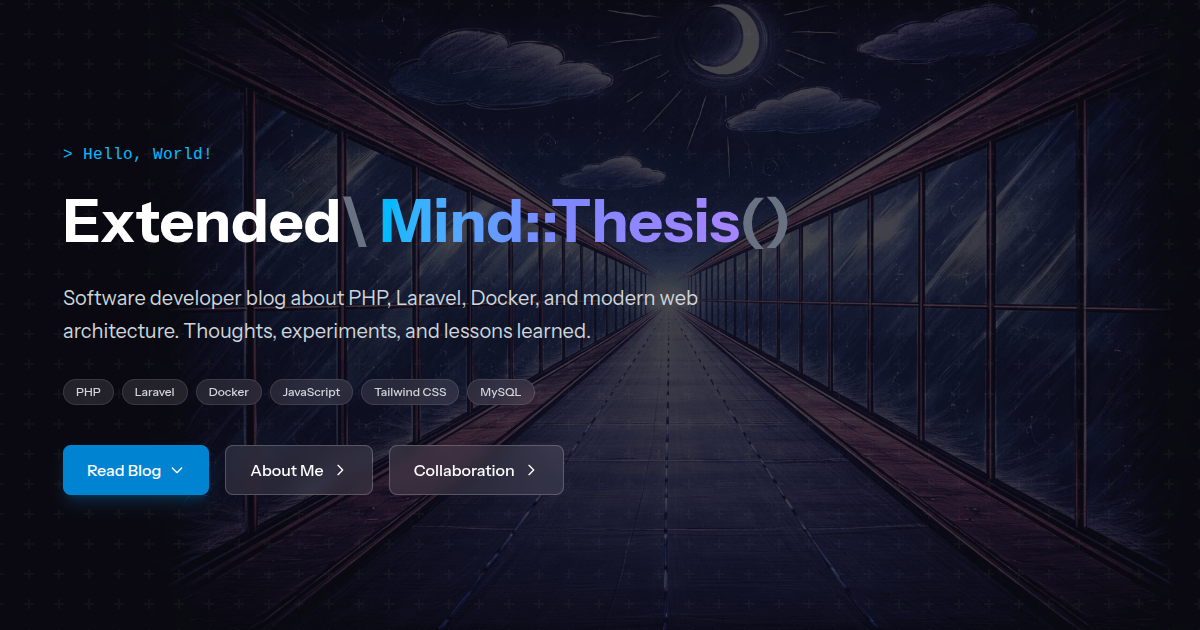
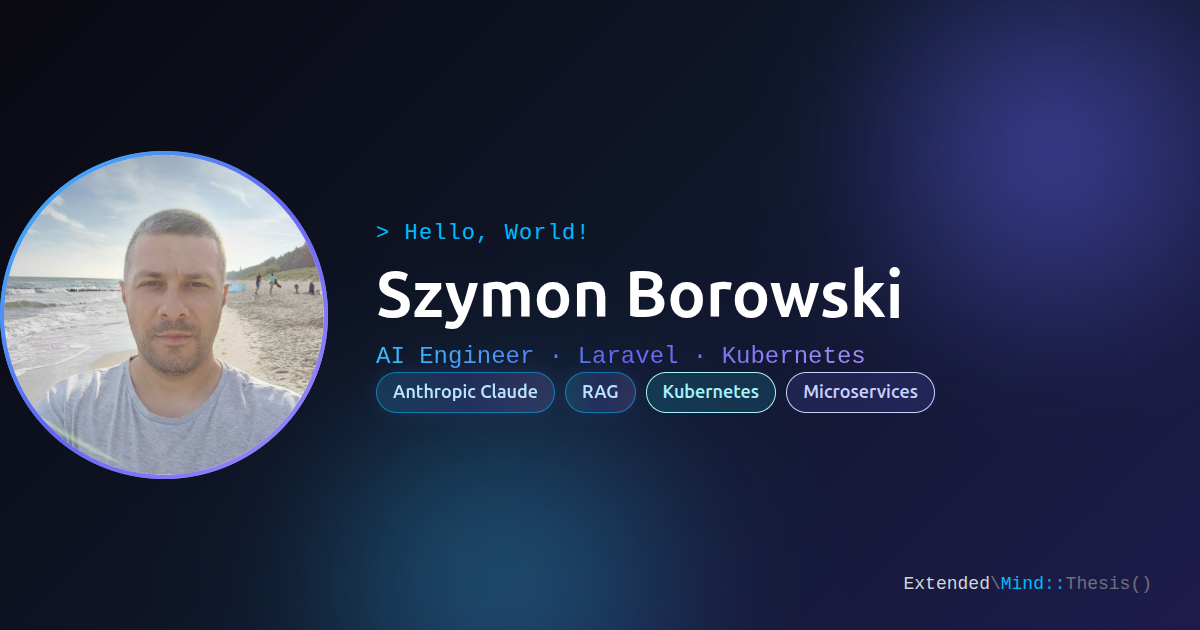
feat(seo): personalised title, designed OG card, sitemap, BlogPosting LD, theme-color metas
Make the home title carry identity and keywords ("Szymon Borowski · AI
Engineer · Laravel · Kubernetes") instead of just the brand string,
and switch the default og:type to "profile" so social platforms treat
this as a personal site. Replace the outdated screenshot-style OG
cover with a designed 1200x630 share card (photo with gradient ring,
gradient name, key tags, brand) rendered from a noindex /og-preview
template that can be regenerated by reopening the page and capturing
a screenshot.

Add the missing SEO infrastructure: theme-color metas (light/dark),
application-name, apple-mobile-web-app metas, apple-touch-icon, a
@stack('head') hook so individual pages can append meta/JSON-LD, a
dynamic /sitemap.xml that combines static URLs with all published
posts pulled from the blog API per locale, BlogPosting JSON-LD plus
article:published_time / article:tag / article:author metas on each
post page, and a robots.txt that references the sitemap and blocks
the og-preview, panel, oauth and chat endpoints. Update the
webmanifest to match the actual dark theme and embed the photo as a
PWA icon.

diff --git a/src/resources/views/layouts/app.blade.php b/src/resources/views/layouts/app.blade.php
@@ -4,25 +4,39 @@
     <meta charset="UTF-8">
     <meta name="viewport" content="width=device-width, initial-scale=1.0">
     <meta name="csrf-token" content="{{ csrf_token() }}">
-    <title>@yield('title', 'Extended\Mind::Thesis()')</title>
+    <title>@yield('title', 'Szymon Borowski · AI Engineer · Laravel · Kubernetes')</title>
+
+    {{-- General meta --}}
+    <meta name="author" content="Szymon Borowski">
+    <meta name="description" content="@yield('og_description', 'Blog Szymona Borowskiego — AI Engineer i Laravel developer. Anthropic API, RAG, event-driven microservices, Kubernetes, observability.')">
+    <meta name="application-name" content="Extended\Mind::Thesis()">
+    <meta name="apple-mobile-web-app-title" content="EMT">
+    <meta name="apple-mobile-web-app-capable" content="yes">
+    <meta name="apple-mobile-web-app-status-bar-style" content="black-translucent">
+    <meta name="theme-color" content="#0f172a" media="(prefers-color-scheme: dark)">
+    <meta name="theme-color" content="#f3f4f6" media="(prefers-color-scheme: light)">
+    <meta name="format-detection" content="telephone=no">
 
     {{-- Open Graph --}}
-    <meta property="og:type" content="@yield('og_type', 'website')">
-    <meta property="og:title" content="@yield('og_title', 'Extended\Mind::Thesis()')">
+    <meta property="og:type" content="@yield('og_type', 'profile')">
+    <meta property="og:title" content="@yield('og_title', 'Szymon Borowski · AI Engineer · Laravel · Kubernetes')">
     <meta property="og:description" content="@yield('og_description', 'Blog Szymona Borowskiego — AI Engineer i Laravel developer. Anthropic API, RAG, event-driven microservices, Kubernetes, observability.')">
     <meta property="og:url" content="{{ url()->current() }}">
     <meta property="og:image" content="@yield('og_image', url('/images/og-cover.png'))">
+    <meta property="og:image:width" content="1200">
+    <meta property="og:image:height" content="630">
+    <meta property="og:image:alt" content="@yield('og_image_alt', 'Szymon Borowski — AI Engineer & Laravel Developer')">
     <meta property="og:site_name" content="Extended\Mind::Thesis()">
     <meta property="og:locale" content="{{ app()->getLocale() == 'pl' ? 'pl_PL' : 'en_US' }}">
+    <meta property="profile:first_name" content="Szymon">
+    <meta property="profile:last_name" content="Borowski">
 
     {{-- Twitter Card --}}
     <meta name="twitter:card" content="summary_large_image">
-    <meta name="twitter:title" content="@yield('og_title', 'Extended\Mind::Thesis()')">
+    <meta name="twitter:title" content="@yield('og_title', 'Szymon Borowski · AI Engineer · Laravel · Kubernetes')">
     <meta name="twitter:description" content="@yield('og_description', 'Blog Szymona Borowskiego — AI Engineer i Laravel developer. Anthropic API, RAG, event-driven microservices, Kubernetes, observability.')">
     <meta name="twitter:image" content="@yield('og_image', url('/images/og-cover.png'))">
-
-    {{-- General meta --}}
-    <meta name="description" content="@yield('og_description', 'Blog Szymona Borowskiego — AI Engineer i Laravel developer. Anthropic API, RAG, event-driven microservices, Kubernetes, observability.')">
+    <meta name="twitter:image:alt" content="@yield('og_image_alt', 'Szymon Borowski — AI Engineer & Laravel Developer')">
 
     {{-- Canonical + hreflang alternates --}}
     @php
@@ -36,8 +50,66 @@
     <link rel="alternate" hreflang="pl" href="{{ $altPl }}">
     <link rel="alternate" hreflang="x-default" href="{{ $canonicalUrl }}">
 
+    {{-- Schema.org JSON-LD: Person + WebSite --}}
+    @php
+        $siteUrl = url('/');
+        $jsonLd = [
+            [
+                '@context' => 'https://schema.org',
+                '@type' => 'Person',
+                'name' => 'Szymon Borowski',
+                'url' => $siteUrl,
+                'image' => url('/images/me200x200.png'),
+                'jobTitle' => 'AI Engineer & Laravel Developer',
+                'sameAs' => [
+                    'https://github.com/szymonborowski',
+                    'https://www.linkedin.com/in/szymon-borowski-db84/',
+                ],
+                'knowsAbout' => [
+                    'Anthropic Claude API',
+                    'Retrieval-Augmented Generation (RAG)',
+                    'AI Agents',
+                    'Large Language Models',
+                    'Laravel',
+                    'PHP',
+                    'Kubernetes',
+                    'Microservices Architecture',
+                    'Event-Driven Architecture',
+                    'Docker',
+                    'ArgoCD',
+                    'GitOps',
+                    'RabbitMQ',
+                    'Redis',
+                    'Meilisearch',
+                    'Qdrant',
+                    'Prometheus',
+                    'Grafana',
+                ],
+            ],
+            [
+                '@context' => 'https://schema.org',
+                '@type' => 'WebSite',
+                'name' => 'Extended\\Mind::Thesis()',
+                'url' => $siteUrl,
+                'inLanguage' => ['en', 'pl'],
+                'potentialAction' => [
+                    '@type' => 'SearchAction',
+                    'target' => [
+                        '@type' => 'EntryPoint',
+                        'urlTemplate' => $siteUrl . '/posts?search={search_term_string}',
+                    ],
+                    'query-input' => 'required name=search_term_string',
+                ],
+            ],
+        ];
+    @endphp
+    <script type="application/ld+json">{!! json_encode($jsonLd, JSON_UNESCAPED_SLASHES | JSON_UNESCAPED_UNICODE) !!}</script>
+
     <link rel="icon" href="/favicon_1.ico" sizes="32x32" type="image/x-icon">
+    <link rel="apple-touch-icon" href="/images/me400x400.png">
     <link rel="manifest" href="/site.webmanifest">
+
+    @stack('head')
     <link rel="stylesheet" href="https://cdnjs.cloudflare.com/ajax/libs/font-awesome/4.7.0/css/font-awesome.min.css" integrity="sha256-eZrrJcwDc/3uDhsdt61sL2oOBY362qM3lon1gyExkL0=" crossorigin="anonymous">
     <link rel="preconnect" href="https://fonts.bunny.net">
     <link href="https://fonts.bunny.net/css?family=instrument-sans:400,500,600,700" rel="stylesheet" />

diff --git a/src/resources/views/og-preview.blade.php b/src/resources/views/og-preview.blade.php
@@ -1,0 +1,93 @@
+<!DOCTYPE html>
+<html lang="en" class="dark">
+<head>
+    <meta charset="UTF-8">
+    <meta name="robots" content="noindex, nofollow">
+    <title>OG card preview</title>
+    @vite(['resources/css/app.css', 'resources/js/app.js'])
+    <style>
+        html, body { margin: 0; padding: 0; background: #020617; }
+    </style>
+</head>
+<body>
+    {{-- 1200×630 share card. Open viewport at exactly 1200×630 to capture. --}}
+    <div class="relative overflow-hidden flex items-center"
+         style="width: 1200px; height: 630px; background: linear-gradient(135deg, #0a0911 0%, #0f172a 50%, #1e1b4b 100%);">
+
+        {{-- Soft glow accents --}}
+        <div class="absolute opacity-40"
+             style="top: -100px; right: -100px; width: 500px; height: 500px; background: radial-gradient(circle, rgba(99,102,241,0.5), transparent 70%); filter: blur(40px);"></div>
+        <div class="absolute opacity-30"
+             style="bottom: -150px; left: 200px; width: 600px; height: 400px; background: radial-gradient(circle, rgba(56,189,248,0.4), transparent 70%); filter: blur(60px);"></div>
+
+        {{-- Content row --}}
+        <div class="relative flex items-center gap-12 px-20 w-full">
+
+            {{-- Left: photo with gradient ring --}}
+            <div class="relative flex-shrink-0">
+                <div class="absolute inset-0 rounded-full blur-2xl opacity-50"
+                     style="background: linear-gradient(135deg, #38bdf8, #6366f1, #a78bfa);"></div>
+                <div class="relative rounded-full p-1"
+                     style="background: linear-gradient(135deg, #38bdf8, #6366f1, #a78bfa);">
+                    <img src="/images/me800x800.png"
+                         alt="Szymon Borowski"
+                         class="rounded-full block"
+                         style="width: 320px; height: 320px; object-fit: cover;">
+                </div>
+            </div>
+
+            {{-- Right: text + tags --}}
+            <div class="flex-1 min-w-0">
+                {{-- Greeting --}}
+                <p class="text-sky-400 font-mono mb-3" style="font-size: 22px; letter-spacing: 0.05em;">
+                    > Hello, World!
+                </p>
+
+                {{-- Name --}}
+                <h1 class="font-bold text-white leading-tight mb-3"
+                    style="font-size: 64px; line-height: 1.05;">
+                    Szymon Borowski
+                </h1>
+
+                {{-- Tagline with gradient --}}
+                <p class="font-mono mb-7"
+                   style="font-size: 24px; line-height: 1.3;">
+                    <span style="background: linear-gradient(90deg, #38bdf8, #6366f1, #a78bfa); -webkit-background-clip: text; background-clip: text; color: transparent;">
+                        AI Engineer · Laravel · Kubernetes
+                    </span>
+                </p>
+
+                {{-- Key tags --}}
+                <div class="flex flex-wrap gap-2.5">
+                    <span class="inline-flex items-center rounded-full border border-sky-400/50 backdrop-blur-sm font-semibold"
+                          style="font-size: 18px; padding: 6px 16px; color: #bae6fd;
+                                 background: linear-gradient(90deg, rgba(56,189,248,0.18), rgba(99,102,241,0.18), rgba(167,139,250,0.18));
+                                 box-shadow: 0 0 18px -6px rgba(99,102,241,0.35);">
+                        Anthropic Claude
+                    </span>
+                    <span class="inline-flex items-center rounded-full border border-sky-400/50 backdrop-blur-sm font-semibold"
+                          style="font-size: 18px; padding: 6px 16px; color: #bae6fd;
+                                 background: linear-gradient(90deg, rgba(56,189,248,0.18), rgba(99,102,241,0.18), rgba(167,139,250,0.18));
+                                 box-shadow: 0 0 18px -6px rgba(99,102,241,0.35);">
+                        RAG
+                    </span>
+                    <span class="inline-flex items-center rounded-full border border-cyan-300/40 font-semibold"
+                          style="font-size: 18px; padding: 6px 16px; color: #a5f3fc; background: rgba(34,211,238,0.15);">
+                        Kubernetes
+                    </span>
+                    <span class="inline-flex items-center rounded-full border border-indigo-300/40 font-semibold"
+                          style="font-size: 18px; padding: 6px 16px; color: #c7d2fe; background: rgba(99,102,241,0.15);">
+                        Microservices
+                    </span>
+                </div>
+            </div>
+        </div>
+
+        {{-- Brand footer --}}
+        <div class="absolute font-mono text-gray-500"
+             style="bottom: 32px; right: 48px; font-size: 18px;">
+            <span class="text-gray-300">Extended</span><span class="text-gray-500">\</span><span class="text-sky-400">Mind</span><span class="text-sky-500">::</span><span class="text-violet-400">Thesis</span><span class="text-gray-500">()</span>
+        </div>
+    </div>
+</body>
+</html>

diff --git a/src/resources/views/post.blade.php b/src/resources/views/post.blade.php
@@ -9,6 +9,54 @@
     @section('og_image', $post['cover_image'])
 @endif
 
+@push('head')
+    {{-- article: meta tags --}}
+    @isset($post['published_at'])
+        <meta property="article:published_time" content="{{ \Carbon\Carbon::parse($post['published_at'])->toIso8601String() }}">
+    @endisset
+    @isset($post['updated_at'])
+        <meta property="article:modified_time" content="{{ \Carbon\Carbon::parse($post['updated_at'])->toIso8601String() }}">
+    @endisset
+    @if(!empty($post['author']['name']))
+        <meta property="article:author" content="{{ $post['author']['name'] }}">
+    @endif
+    @if(!empty($post['tags']))
+        @foreach($post['tags'] as $tag)
+            <meta property="article:tag" content="{{ $tag['name'] ?? '' }}">
+        @endforeach
+    @endif
+
+    {{-- BlogPosting JSON-LD --}}
+    @php
+        $blogPostingLd = [
+            '@context' => 'https://schema.org',
+            '@type' => 'BlogPosting',
+            'headline' => $post['title'] ?? '',
+            'image' => $post['cover_image'] ?? url('/images/og-cover.png'),
+            'datePublished' => isset($post['published_at']) ? \Carbon\Carbon::parse($post['published_at'])->toIso8601String() : null,
+            'dateModified' => isset($post['updated_at']) ? \Carbon\Carbon::parse($post['updated_at'])->toIso8601String() : null,
+            'author' => [
+                '@type' => 'Person',
+                'name' => $post['author']['name'] ?? 'Szymon Borowski',
+                'url' => url('/'),
+            ],
+            'publisher' => [
+                '@type' => 'Person',
+                'name' => 'Szymon Borowski',
+                'url' => url('/'),
+            ],
+            'mainEntityOfPage' => [
+                '@type' => 'WebPage',
+                '@id' => url()->current(),
+            ],
+            'description' => Str::limit(strip_tags(Str::markdown($post['content'] ?? '')), 160),
+            'inLanguage' => $post['locale'] ?? app()->getLocale(),
+        ];
+        $blogPostingLd = array_filter($blogPostingLd, fn($v) => $v !== null);
+    @endphp
+    <script type="application/ld+json">{!! json_encode($blogPostingLd, JSON_UNESCAPED_SLASHES | JSON_UNESCAPED_UNICODE) !!}</script>
+@endpush
+
 @section('content')
     <div class="max-w-7xl mx-auto px-4 sm:px-6 lg:px-8 py-8">
         <div class="grid grid-cols-1 lg:grid-cols-4 gap-6">

diff --git a/src/routes/web.php b/src/routes/web.php
@@ -39,7 +39,40 @@ Route::get('/lang/{locale}', function (string $locale) {
 
 Route::get('/', [HomeController::class, 'index'])->name('home');
 
+Route::get('/og-preview',    fn() => view('og-preview'))->name('og.preview');
 Route::get('/about',         fn() => view('about'))->name('about');
+
+Route::get('/sitemap.xml', function (\App\Services\BlogApiService $api) {
+    $static = [
+        ['loc' => url('/'),              'priority' => '1.0', 'changefreq' => 'weekly'],
+        ['loc' => url('/about'),         'priority' => '0.8', 'changefreq' => 'monthly'],
+        ['loc' => url('/posts'),         'priority' => '0.9', 'changefreq' => 'weekly'],
+        ['loc' => url('/collaboration'), 'priority' => '0.7', 'changefreq' => 'monthly'],
+        ['loc' => url('/contact'),       'priority' => '0.5', 'changefreq' => 'yearly'],
+    ];
+
+    $posts = [];
+    foreach (['en', 'pl'] as $locale) {
+        try {
+            foreach ($api->getAllPostsForIndexing($locale) as $post) {
+                $slug = $post['slug'] ?? $post['id'] ?? null;
+                if (!$slug) continue;
+                $posts[] = [
+                    'loc' => url('/post/' . $slug) . '?lang=' . $locale,
+                    'lastmod' => isset($post['updated_at']) ? \Carbon\Carbon::parse($post['updated_at'])->toIso8601String() : null,
+                    'priority' => '0.7',
+                    'changefreq' => 'monthly',
+                ];
+            }
+        } catch (\Throwable $e) {
+            // blog API unreachable — skip dynamic, keep static
+        }
+    }
+
+    return response()
+        ->view('sitemap', ['urls' => array_merge($static, $posts)])
+        ->header('Content-Type', 'application/xml; charset=utf-8');
+})->name('sitemap');
 Route::get('/contact',       fn() => view('contact'))->name('contact');
 Route::post('/contact',      [ContactController::class, 'send'])->middleware('throttle:5,1')->name('contact.send');
 Route::get('/collaboration', fn() => view('collaboration'))->name('collaboration');

diff --git a/src/resources/views/sitemap.blade.php b/src/resources/views/sitemap.blade.php
@@ -1,0 +1,11 @@
+<?php echo '<?xml version="1.0" encoding="UTF-8"?>' . "\n"; ?>
+<urlset xmlns="http://www.sitemaps.org/schemas/sitemap/0.9">
+@foreach($urls as $url)
+    <url>
+        <loc>{{ $url['loc'] }}</loc>
+        @isset($url['lastmod'])<lastmod>{{ $url['lastmod'] }}</lastmod>@endisset
+        @isset($url['changefreq'])<changefreq>{{ $url['changefreq'] }}</changefreq>@endisset
+        @isset($url['priority'])<priority>{{ $url['priority'] }}</priority>@endisset
+    </url>
+@endforeach
+</urlset>
